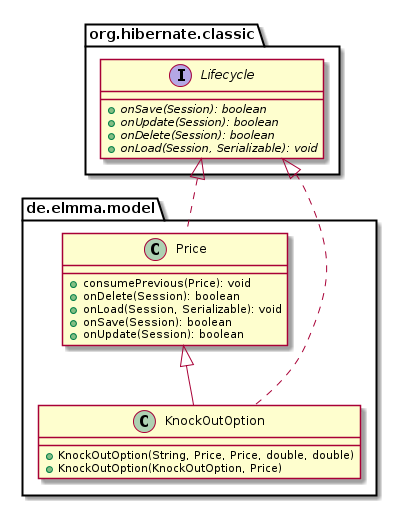
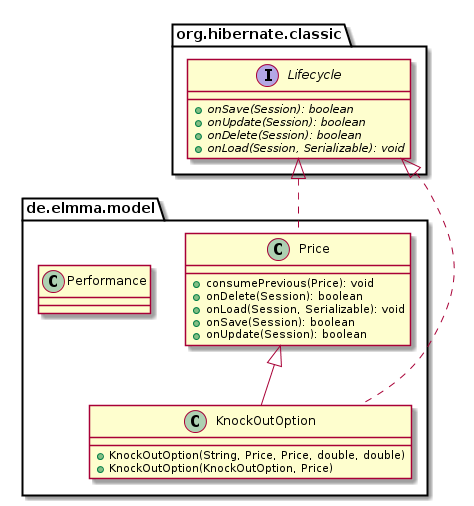
add some strategy classes

diff --git a/elmma/elmma-core/src/main/java/de/elmma/services/IntradayFetcher.java b/elmma/elmma-core/src/main/java/de/elmma/services/IntradayFetcher.java
@@ -8,35 +8,46 @@ import java.util.Date;
 import java.util.Locale;
 
 import org.json.JSONObject;
-import org.springframework.stereotype.Service;
+import org.slf4j.Logger;
+import org.slf4j.LoggerFactory;
+import org.springframework.scheduling.annotation.Scheduled;
+import org.springframework.stereotype.Component;
 
 import de.elmma.controller.JSONURLReader;
 import de.elmma.dbio.SessionProvider;
 import de.elmma.model.Price;
 
-@Service("CurrentPriceFetcher")
+//@Component
 public class IntradayFetcher {
+
+	private static final Logger log = LoggerFactory.getLogger(IntradayFetcher.class);
 
 	SimpleDateFormat format = new SimpleDateFormat("dd. MMM yyyy HH:mm");
 
+	Price lastPrice = null;
+
 	public IntradayFetcher() {
-		Price lastPrice = SessionProvider.take("FROM Price p ORDER BY p.datetime DESC", q -> {
+		lastPrice = SessionProvider.take("FROM Price p ORDER BY p.datetime DESC", q -> {
 			q.setMaxResults(1);
 			return q.uniqueResult();
 		});
+		log.info("####### take the last price: " + lastPrice);
 		System.out.println("####### take the last price: " + lastPrice);
-		while (true) {
-			try {
-				Price price = fetchCurrentPrice();
-				if (price.getDatetime().getTime() > lastPrice.getDatetime().getTime()) {
-					SessionProvider.save(session -> session.save(price));
-					lastPrice = price;
-					System.out.println("####### saved new price: " + lastPrice);
-				}
-				Thread.sleep(1000);
-			} catch (ParseException | InterruptedException | IOException e) {
-				e.printStackTrace();
+	}
+
+	@Scheduled(fixedRate = 1000)
+	private void requestNewPrice() {
+		try {
+			Price price = fetchCurrentPrice();
+			if (price.getDatetime().getTime() > lastPrice.getDatetime().getTime()) {
+				SessionProvider.save(session -> session.save(price));
+				lastPrice = price;
+				log.info("####### saved new price: " + lastPrice);
+				System.out.println("####### saved new price: " + lastPrice);
 			}
+			Thread.sleep(1000);
+		} catch (ParseException | InterruptedException | IOException e) {
+			e.printStackTrace();
 		}
 	}
 

diff --git a/elmma/elmma-core/src/main/java/de/elmma/dbio/ElmmaHibernateConfiguration.java b/elmma/elmma-core/src/main/java/de/elmma/dbio/ElmmaHibernateConfiguration.java
@@ -1,15 +1,11 @@
 package de.elmma.dbio;
 
-import java.util.ArrayList;
 import java.util.List;
 
 import javax.persistence.Entity;
 
 import org.hibernate.SessionFactory;
 import org.hibernate.cfg.Configuration;
-import org.springframework.beans.factory.config.BeanDefinition;
-import org.springframework.context.annotation.ClassPathScanningCandidateComponentProvider;
-import org.springframework.core.type.filter.AnnotationTypeFilter;
 
 import de.elmma.model.Price;
 import io.github.lukehutch.fastclasspathscanner.FastClasspathScanner;
@@ -27,29 +23,16 @@ public class ElmmaHibernateConfiguration extends Configuration {
 
 	@Override
 	public SessionFactory buildSessionFactory() {
-		ArrayList<Class> classes = new ArrayList<Class>();
-
-		// the following will detect all classes that are annotated as @Entity
-		ClassPathScanningCandidateComponentProvider scanner = new ClassPathScanningCandidateComponentProvider(false);
-		scanner.addIncludeFilter(new AnnotationTypeFilter(Entity.class));
-
-		for (BeanDefinition bd : scanner.findCandidateComponents(Price.class.getPackage().toString())) {
-			String name = bd.getBeanClassName();
-			try {
-				classes.add(Class.forName(name));
-				System.out.println("------------>" + name);
-			} catch (Exception E) {
-				// TODO: handle exception - couldn't load class in question
-			}
-		}
-		String packageName = "de.elmma.model";
+		String packageName = Price.class.getPackage().getName();
 		List<String> classNames = new FastClasspathScanner(packageName).scan().getNamesOfAllClasses();
 		String packageNamePrefix = packageName + ".";
 		for (String className : classNames) {
 			if (className.startsWith(packageNamePrefix)) {
 				try {
 					Class<?> clazz = Class.forName(className);
-					addAnnotatedClass(clazz);
+					if (clazz.isAnnotationPresent(Entity.class)) {
+						addAnnotatedClass(clazz);
+					}
 					System.out.println("Map class: " + clazz.toString());
 				} catch (ClassNotFoundException e) {
 					e.printStackTrace();

diff --git a/exchange-api/python_server.py b/exchange-api/python_server.py
@@ -8,6 +8,8 @@ from yahoo_finance import Share
 import traceback
 from lxml import html
 import requests
+import time
+
 
 def extract_var(var, query):
   return str(query[var]).replace('[','').replace(']','').replace('\'','')
@@ -63,10 +65,16 @@ class testHTTPServer_RequestHandler(BaseHTTPRequestHandler):
             page = requests.get('http://www.xetra.com/xetra-de/')
             tree = html.fromstring(page.content)
             price = "{ \"price\":\"" + returnValueAsString(tree, '//*[@id="idmsChartLast"]/text()')
-            time = ",\"time\":\"" + returnValueAsString(tree, '//*[@id="idmsChartTime"]/text()') + str(" }")
-            date = ",\"date\":\"" + returnValueAsString(tree, '//*[@id="idmsChartDate"]/text()')
+            timeS = ",\"time\":\"" + returnValueAsString(tree, '//*[@id="idmsChartTime"]/text()') + str(" }")
+            dateS = ",\"date\":\"" + returnValueAsString(tree, '//*[@id="idmsChartDate"]/text()')
+            
+            #page = requests.get('http://www.ariva.de/db_dax_indikation-index/kurs')
+            #tree = html.fromstring(page.content)
+            #price = "{ \"price\":\"" + returnValueAsString(tree, '//*[@id="pageQuotes"]/div[2]/div[1]/table/tbody/tr[2]/td[2]/span/text()')
+            #timeS = ",\"time\":\"" + returnValueAsString(tree, '//*[@id="pageQuotes"]/div[2]/div[1]/table/tbody/tr[2]/td[10]/span/text()') + str(" }")
+            #dateS = time.strftime("%Y-%m-%d")
 
-            self.wfile.write((str(price) + str(date) + str(time)).encode('utf-8'))
+            self.wfile.write((str(price) + str(dateS) + str(timeS)).encode('utf-8'))
 
         except:
           self.wfile.write(traceback.format_exc().encode('utf-8'))

diff --git a/elmma/elmma-core/src/main/java/de/elmma/controller/PriceDAO.java b/elmma/elmma-core/src/main/java/de/elmma/controller/PriceDAO.java
@@ -15,7 +15,7 @@ import de.elmma.model.Price;
 
 public class PriceDAO {
 	public static List<Price> getPrices(String from, String to) {
-		return (List<Price>) new HibernateSessionProvider() {
+		List<Price> prices = (List<Price>) new HibernateSessionProvider() {
 
 			@Override
 			public Object work(Session session) {
@@ -40,5 +40,10 @@ public class PriceDAO {
 				return format.parse(strDate);
 			}
 		}.getResult();
+
+		for (int i = 1; i < prices.size(); i++) {
+			prices.get(i).consumePrevious(prices.get(0));
+		}
+		return prices;
 	}
 }

diff --git a/elmma/elmma-core/src/main/java/de/elmma/App.java b/elmma/elmma-core/src/main/java/de/elmma/App.java
@@ -2,8 +2,10 @@ package de.elmma;
 
 import org.springframework.boot.SpringApplication;
 import org.springframework.boot.autoconfigure.SpringBootApplication;
+import org.springframework.scheduling.annotation.EnableScheduling;
 
 @SpringBootApplication
+@EnableScheduling
 public class App {
 	public static void main(String[] args) {
 		SpringApplication.run(App.class, args);

diff --git a/elmma/elmma-core/src/main/java/de/elmma/strategies/Strategy.java b/elmma/elmma-core/src/main/java/de/elmma/strategies/Strategy.java
@@ -1,0 +1,14 @@
+package de.elmma.strategies;
+
+import de.elmma.model.Performance;
+import de.elmma.model.Price;
+import lombok.Data;
+
+@Data
+public abstract class Strategy {
+	private Performance performance;
+
+	abstract double getInitialInvest();
+
+	abstract void onUpdate(Price update);
+}

diff --git a/elmma/elmma-core/src/main/java/de/elmma/strategies/TSS.java b/elmma/elmma-core/src/main/java/de/elmma/strategies/TSS.java
@@ -1,0 +1,16 @@
+package de.elmma.strategies;
+
+import de.elmma.model.Price;
+
+public class TSS extends Strategy {
+
+	@Override
+	public double getInitialInvest() {
+		return 1000d;
+	}
+
+	@Override
+	void onUpdate(Price update) {
+		
+	}
+}

diff --git a/elmma/elmma-model/src/main/java/de/elmma/model/Performance.java b/elmma/elmma-model/src/main/java/de/elmma/model/Performance.java
@@ -1,0 +1,11 @@
+package de.elmma.model;
+
+import java.util.List;
+
+import lombok.Data;
+
+@Data
+public class Performance {
+	int count;
+	List<Price> history;
+}
